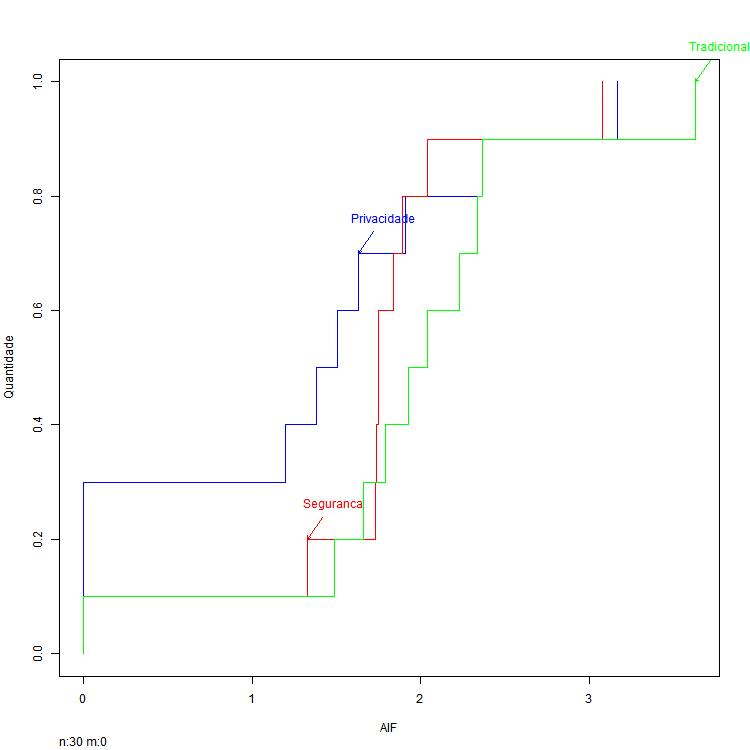
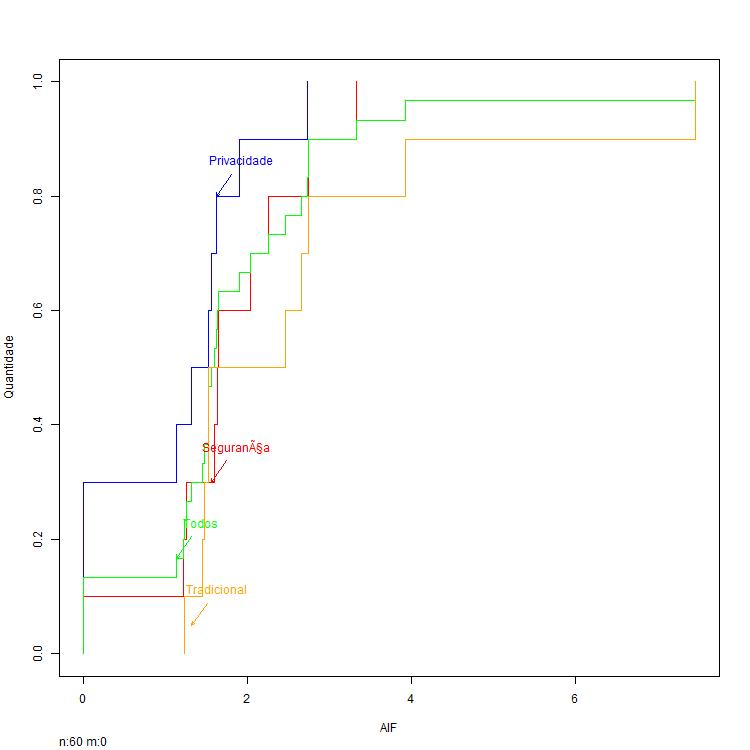
update Script

diff --git a/Scripts/Python/teste.py b/Scripts/Python/teste.py
@@ -6,7 +6,8 @@ import numpy as np
 
 resultados = []
 
-for pastas in glob.glob('C:/Users/felip/Documents/TCC2/Metricas/*'):      #isso iria listar diretorios
+# Percorre todos os arquivos das métricas dos navegadores e armazena em resultados
+for pastas in glob.glob('C:/Users/felip/Documents/TCC2/Metricas/*'):
     pasta = ''
     pasta = '' + pastas
 
@@ -22,60 +23,31 @@ for pastas in glob.glob('C:/Users/felip/Documents/TCC2/Metricas/*'):      #isso 
         df = pd.read_csv(filename, index_col=None, header=0, parse_dates=True, infer_datetime_format=True)
         resultados.append(df)
 
+# Armazena os valores coletados em um DataFrame e preenche os valores em branco com zero
 frame = pd.DataFrame(pd.concat(resultados, ignore_index=False, sort=False))
 frame.fillna(0, inplace=True)
-frame['LOC (Média por pacote)'] = (frame['LOC (Média por pacote)'].replace(',','.', regex=True))
-frame['AHF (%)'] = (frame['AHF (%)'].replace(',','.', regex=True))
-frame['AIF (%)'] = (frame['AIF (%)'].replace(',','.', regex=True))
-frame['CF (%)'] = (frame['CF (%)'].replace(',','.', regex=True))
-frame['MHF (%)'] = (frame['MHF (%)'].replace(',','.', regex=True))
-frame['MIF (%)'] = (frame['MIF (%)'].replace(',','.', regex=True))
-frame['PF (%)'] = (frame['PF (%)'].replace(',','.', regex=True))
-frame['CBO - Média'] = (frame['CBO - Média'].replace(',','.', regex=True))
-frame['DIT – Média'] = (frame['DIT – Média'].replace(',','.', regex=True))
-frame['LCOM – Média'] = (frame['LCOM – Média'].replace(',','.', regex=True))
-frame['NOC – Média'] = (frame['NOC – Média'].replace(',','.', regex=True))
-frame['RFC – Média'] = (frame['RFC – Média'].replace(',','.', regex=True))
-frame['WMC – Média'] = (frame['WMC – Média'].replace(',','.', regex=True))
-frame['LOC'] = (frame['LOC'].replace(',','.', regex=True))
 
-frame['LOC (Média por pacote)'] = frame['LOC (Média por pacote)'].astype(float)
-frame = frame.round({'LOC (Média por pacote)':2})
-frame['AIF (%)'] = frame['AIF (%)'].astype(float)
-frame = frame.round({'AIF (%))':2})
-frame['CF (%)'] = frame['CF (%)'].astype(float)
-frame = frame.round({'CF (%)':2})
-frame['MHF (%)'] = frame['MHF (%)'].astype(float)
-frame = frame.round({'MHF (%)':2})
-frame['MIF (%)'] = frame['MIF (%)'].astype(float)
-frame = frame.round({'MIF (%)':2})
-frame['PF (%)'] = frame['PF (%)'].astype(float)
-frame = frame.round({'PF (%)':2})
-frame['CBO - Média'] = frame['CBO - Média'].astype(float)
-frame = frame.round({'CBO - Média':2})
-frame['DIT – Média'] = frame['DIT – Média'].astype(float)
-frame = frame.round({'DIT – Média':2})
-frame['LCOM – Média'] = frame['LCOM – Média'].astype(float)
-frame = frame.round({'LCOM – Média':2})
-frame['NOC – Média'] = frame['NOC – Média'].astype(float)
-frame = frame.round({'NOC – Média':2})
-frame['RFC – Média'] = frame['RFC – Média'].astype(float)
-frame = frame.round({'RFC – Média':2})
-frame['WMC – Média'] = frame['WMC – Média'].astype(float)
-frame = frame.round({'WMC – Média':2})
-frame['LOC'] = frame['LOC'].astype(float)
-frame = frame.round({'LOC':2})
+# Substitui as virgulas por pontos nas colunas que contem resultados com formatação errada
 cols = ["LOC (Média por pacote)",	"L(Groovy)",	"L(HTML)",	"L(J)",	"L(KT)",	"L(XML)",	"LOC",	"AHF (%)",	"AIF (%)",	"CF (%)",	"MHF (%)",	"MIF (%)",	"PF (%)",	"CBO - Média",	"DIT – Média",	"LCOM – Média",	"NOC – Média",	"RFC – Média",	"WMC – Média",	"CBO",	"DIT",	"LCOM",	"NOC", "RFC", "WMC"]
 for col in cols:  # Iterate over chosen columns
-        if not col:
-                frame[col] = frame[col].astype(float)
+    frame[col] = (frame[col].replace(',','.', regex=True))
+    frame[col] = frame[col].astype(float)
+    frame = frame.round({col:2})
 
+
+
+#Armazena os resultados em um arquivo csv
 os.chdir("C:/Users/felip/Documents/TCC2/Resultados/Metricas_CSV")
 
 resultadosFrame = pd.DataFrame(frame.groupby('Navegadores', as_index=False, sort=False)['LOC (Média por pacote)', 'L(Groovy)', 'L(HTML)', 'L(J)', 'L(KT)', 'L(XML)', 'LOC', 'AHF (%)', 'AIF (%)', 'CF (%)', 'MHF (%)', 'MIF (%)', 'PF (%)', 'CBO - Média', 'DIT – Média', 'LCOM – Média', 'NOC – Média', 'RFC – Média', 'WMC – Média', 'CBO', 'DIT', 'LCOM', 'NOC', 'RFC', 'WMC'].sum())
 
-resultadosFrame['Classes'] = pd.Series(['Segurança', 'Tradicional', 'Privacidade', 'Privacidade', 'Tradicional', 'Segurança', 'Tradicional', 'Privacidade', 'Tradicional', 'Segurança', 'Tradicional', 'Tradicional', 'Privacidade', 'Tradicional', 'Privacidade', 'Segurança', 'Tradicional', 'Privacidade', 'Segurança', 'Privacidade', 'Segurança', 'Privacidade', 'Tradicional', 'Segurança', 'Privacidade', 'Privacidade', 'Tradicional', 'Segurança', 'Segurança', 'Segurança'])
+resultadosFrameBrowser = resultadosFrame.copy()
+
+resultadosFrame['Classes'] = pd.Series(['Segurança', 'Tradicional', 'Privacidade', 'Privacidade', 'Tradicional', 'Segurança', 'Tradicional', 'Privacidade', 'Tradicional', 'Segurança', 'Tradicional', 'Tradicional', 'Privacidade', 'Tradicional', 'Privacidade', 'Segurança', 'Tradicional', 'Privacidade', 'Segurança', 'Privacidade', 'Segurança', 'Privacidade', 'Tradicional', 'Segurança', 'Privacidade', 'Privacidade', 'Tradicional', 'Segurança', 'Segurança', 'Segurança', 'Todos', 'Todos', 'Todos', 'Todos', 'Todos', 'Todos', 'Todos', 'Todos', 'Todos', 'Todos', 'Todos', 'Todos', 'Todos', 'Todos', 'Todos', 'Todos', 'Todos', 'Todos', 'Todos', 'Todos', 'Todos', 'Todos', 'Todos', 'Todos', 'Todos', 'Todos', 'Todos', 'Todos', 'Todos', 'Todos'])
+
+resultadosFrameBrowser['Classes'] = pd.Series(['Todos', 'Todos', 'Todos', 'Todos', 'Todos', 'Todos', 'Todos', 'Todos', 'Todos', 'Todos', 'Todos', 'Todos', 'Todos', 'Todos', 'Todos', 'Todos', 'Todos', 'Todos', 'Todos', 'Todos', 'Todos', 'Todos', 'Todos', 'Todos', 'Todos', 'Todos', 'Todos', 'Todos', 'Todos', 'Todos'])
+
+resultadosFrame = resultadosFrame.append(resultadosFrameBrowser, ignore_index=True) 
+
 
 resultadosFrame.to_csv('Resultados_Original.csv', index=True)
-#frame.to_csv('Resultados_Original.csv', index=True)
-

diff --git a/Scripts/Python/Gerar_CSV.py b/Scripts/Python/Gerar_CSV.py
@@ -6,7 +6,8 @@ import numpy as np
 
 resultados = []
 
-for pastas in glob.glob('C:/Users/felip/Documents/TCC2/Metricas/*'):      #isso iria listar diretorios
+# Percorre todos os arquivos das métricas dos navegadores e armazena em resultados
+for pastas in glob.glob('C:/Users/felip/Documents/TCC2/Metricas/*'):
     pasta = ''
     pasta = '' + pastas
 
@@ -22,8 +23,11 @@ for pastas in glob.glob('C:/Users/felip/Documents/TCC2/Metricas/*'):      #isso 
         df = pd.read_csv(filename, index_col=None, header=0, parse_dates=True, infer_datetime_format=True)
         resultados.append(df)
 
+# Armazena os valores coletados em um DataFrame e preenche os valores em branco com zero
 frame = pd.DataFrame(pd.concat(resultados, ignore_index=False, sort=False))
 frame.fillna(0, inplace=True)
+
+# Substitui as virgulas por pontos nas colunas que contem resultados com formatação errada
 frame['LOC (Média por pacote)'] = (frame['LOC (Média por pacote)'].replace(',','.', regex=True))
 frame['AHF (%)'] = (frame['AHF (%)'].replace(',','.', regex=True))
 frame['AIF (%)'] = (frame['AIF (%)'].replace(',','.', regex=True))
@@ -39,6 +43,7 @@ frame['RFC – Média'] = (frame['RFC – Média'].replace(',','.', regex=True))
 frame['WMC – Média'] = (frame['WMC – Média'].replace(',','.', regex=True))
 frame['LOC'] = (frame['LOC'].replace(',','.', regex=True))
 
+# Realiza um parse de string para float nas colunas que estão como string
 frame['LOC (Média por pacote)'] = frame['LOC (Média por pacote)'].astype(float)
 frame = frame.round({'LOC (Média por pacote)':2})
 frame['AIF (%)'] = frame['AIF (%)'].astype(float)
@@ -70,6 +75,8 @@ for col in cols:  # Iterate over chosen columns
         if not col:
                 frame[col] = frame[col].astype(float)
 
+
+#Armazena os resultados em um arquivo csv
 os.chdir("C:/Users/felip/Documents/TCC2/Resultados/Metricas_CSV")
 
 resultadosFrame = pd.DataFrame(frame.groupby('Navegadores', as_index=False, sort=False)['LOC (Média por pacote)', 'L(Groovy)', 'L(HTML)', 'L(J)', 'L(KT)', 'L(XML)', 'LOC', 'AHF (%)', 'AIF (%)', 'CF (%)', 'MHF (%)', 'MIF (%)', 'PF (%)', 'CBO - Média', 'DIT – Média', 'LCOM – Média', 'NOC – Média', 'RFC – Média', 'WMC – Média', 'CBO', 'DIT', 'LCOM', 'NOC', 'RFC', 'WMC'].sum())
